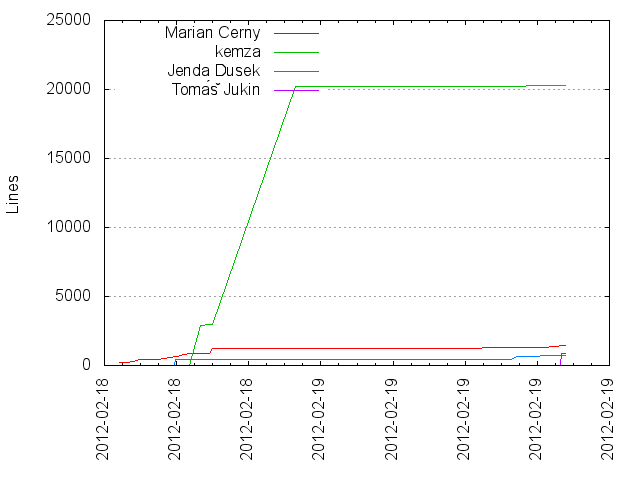
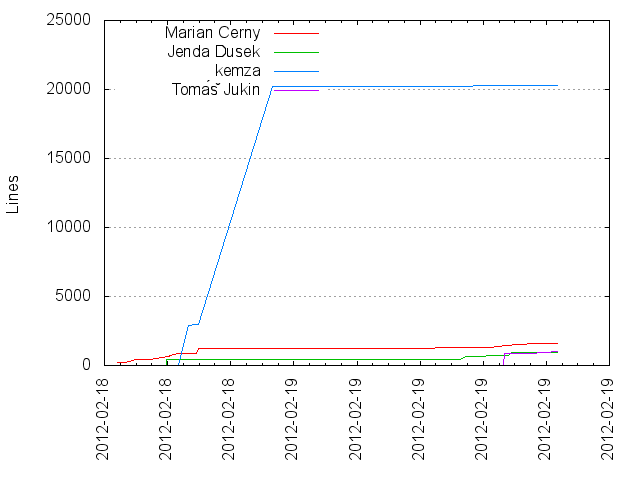
Generated git repository statistics

diff --git a/GADCPrague_stats/activity.html b/GADCPrague_stats/activity.html
@@ -4,7 +4,7 @@
 <head>
 	<title>GitStats - CeliDB</title>
 	<link rel="stylesheet" href="gitstats.css" type="text/css" />
-	<meta name="generator" content="GitStats 57c9f66" />
+	<meta name="generator" content="GitStats 6b39b19" />
 	<script type="text/javascript" src="sortable.js"></script>
 </head>
 <body>
@@ -22,27 +22,27 @@
 
 <h2><a href="#weekly_activity" name="weekly_activity">Weekly activity</a></h2>
 
-<p>Last 32 weeks</p><table class="noborders"><tr><td style="text-align: center; vertical-align: bottom">0<div style="display: block; background-color: red; width: 20px; height: 1px"></div></td><td style="text-align: center; vertical-align: bottom">0<div style="display: block; background-color: red; width: 20px; height: 1px"></div></td><td style="text-align: center; vertical-align: bottom">0<div style="display: block; background-color: red; width: 20px; height: 1px"></div></td><td style="text-align: center; vertical-align: bottom">0<div style="display: block; background-color: red; width: 20px; height: 1px"></div></td><td style="text-align: center; vertical-align: bottom">0<div style="display: block; background-color: red; width: 20px; height: 1px"></div></td><td style="text-align: center; vertical-align: bottom">0<div style="display: block; background-color: red; width: 20px; height: 1px"></div></td><td style="text-align: center; vertical-align: bottom">0<div style="display: block; background-color: red; width: 20px; height: 1px"></div></td><td style="text-align: center; vertical-align: bottom">0<div style="display: block; background-color: red; width: 20px; height: 1px"></div></td><td style="text-align: center; vertical-align: bottom">0<div style="display: block; background-color: red; width: 20px; height: 1px"></div></td><td style="text-align: center; vertical-align: bottom">0<div style="display: block; background-color: red; width: 20px; height: 1px"></div></td><td style="text-align: center; vertical-align: bottom">0<div style="display: block; background-color: red; width: 20px; height: 1px"></div></td><td style="text-align: center; vertical-align: bottom">0<div style="display: block; background-color: red; width: 20px; height: 1px"></div></td><td style="text-align: center; vertical-align: bottom">0<div style="display: block; background-color: red; width: 20px; height: 1px"></div></td><td style="text-align: center; vertical-align: bottom">0<div style="display: block; background-color: red; width: 20px; height: 1px"></div></td><td style="text-align: center; vertical-align: bottom">0<div style="display: block; background-color: red; width: 20px; height: 1px"></div></td><td style="text-align: center; vertical-align: bottom">0<div style="display: block; background-color: red; width: 20px; height: 1px"></div></td><td style="text-align: center; vertical-align: bottom">0<div style="display: block; background-color: red; width: 20px; height: 1px"></div></td><td style="text-align: center; vertical-align: bottom">0<div style="display: block; background-color: red; width: 20px; height: 1px"></div></td><td style="text-align: center; vertical-align: bottom">0<div style="display: block; background-color: red; width: 20px; height: 1px"></div></td><td style="text-align: center; vertical-align: bottom">0<div style="display: block; background-color: red; width: 20px; height: 1px"></div></td><td style="text-align: center; vertical-align: bottom">0<div style="display: block; background-color: red; width: 20px; height: 1px"></div></td><td style="text-align: center; vertical-align: bottom">0<div style="display: block; background-color: red; width: 20px; height: 1px"></div></td><td style="text-align: center; vertical-align: bottom">0<div style="display: block; background-color: red; width: 20px; height: 1px"></div></td><td style="text-align: center; vertical-align: bottom">0<div style="display: block; background-color: red; width: 20px; height: 1px"></div></td><td style="text-align: center; vertical-align: bottom">0<div style="display: block; background-color: red; width: 20px; height: 1px"></div></td><td style="text-align: center; vertical-align: bottom">0<div style="display: block; background-color: red; width: 20px; height: 1px"></div></td><td style="text-align: center; vertical-align: bottom">0<div style="display: block; background-color: red; width: 20px; height: 1px"></div></td><td style="text-align: center; vertical-align: bottom">0<div style="display: block; background-color: red; width: 20px; height: 1px"></div></td><td style="text-align: center; vertical-align: bottom">0<div style="display: block; background-color: red; width: 20px; height: 1px"></div></td><td style="text-align: center; vertical-align: bottom">0<div style="display: block; background-color: red; width: 20px; height: 1px"></div></td><td style="text-align: center; vertical-align: bottom">0<div style="display: block; background-color: red; width: 20px; height: 1px"></div></td><td style="text-align: center; vertical-align: bottom">40<div style="display: block; background-color: red; width: 20px; height: 200px"></div></td></tr><tr><td>32</td><td>31</td><td>30</td><td>29</td><td>28</td><td>27</td><td>26</td><td>25</td><td>24</td><td>23</td><td>22</td><td>21</td><td>20</td><td>19</td><td>18</td><td>17</td><td>16</td><td>15</td><td>14</td><td>13</td><td>12</td><td>11</td><td>10</td><td>9</td><td>8</td><td>7</td><td>6</td><td>5</td><td>4</td><td>3</td><td>2</td><td>1</td></tr></table>
+<p>Last 32 weeks</p><table class="noborders"><tr><td style="text-align: center; vertical-align: bottom">0<div style="display: block; background-color: red; width: 20px; height: 1px"></div></td><td style="text-align: center; vertical-align: bottom">0<div style="display: block; background-color: red; width: 20px; height: 1px"></div></td><td style="text-align: center; vertical-align: bottom">0<div style="display: block; background-color: red; width: 20px; height: 1px"></div></td><td style="text-align: center; vertical-align: bottom">0<div style="display: block; background-color: red; width: 20px; height: 1px"></div></td><td style="text-align: center; vertical-align: bottom">0<div style="display: block; background-color: red; width: 20px; height: 1px"></div></td><td style="text-align: center; vertical-align: bottom">0<div style="display: block; background-color: red; width: 20px; height: 1px"></div></td><td style="text-align: center; vertical-align: bottom">0<div style="display: block; background-color: red; width: 20px; height: 1px"></div></td><td style="text-align: center; vertical-align: bottom">0<div style="display: block; background-color: red; width: 20px; height: 1px"></div></td><td style="text-align: center; vertical-align: bottom">0<div style="display: block; background-color: red; width: 20px; height: 1px"></div></td><td style="text-align: center; vertical-align: bottom">0<div style="display: block; background-color: red; width: 20px; height: 1px"></div></td><td style="text-align: center; vertical-align: bottom">0<div style="display: block; background-color: red; width: 20px; height: 1px"></div></td><td style="text-align: center; vertical-align: bottom">0<div style="display: block; background-color: red; width: 20px; height: 1px"></div></td><td style="text-align: center; vertical-align: bottom">0<div style="display: block; background-color: red; width: 20px; height: 1px"></div></td><td style="text-align: center; vertical-align: bottom">0<div style="display: block; background-color: red; width: 20px; height: 1px"></div></td><td style="text-align: center; vertical-align: bottom">0<div style="display: block; background-color: red; width: 20px; height: 1px"></div></td><td style="text-align: center; vertical-align: bottom">0<div style="display: block; background-color: red; width: 20px; height: 1px"></div></td><td style="text-align: center; vertical-align: bottom">0<div style="display: block; background-color: red; width: 20px; height: 1px"></div></td><td style="text-align: center; vertical-align: bottom">0<div style="display: block; background-color: red; width: 20px; height: 1px"></div></td><td style="text-align: center; vertical-align: bottom">0<div style="display: block; background-color: red; width: 20px; height: 1px"></div></td><td style="text-align: center; vertical-align: bottom">0<div style="display: block; background-color: red; width: 20px; height: 1px"></div></td><td style="text-align: center; vertical-align: bottom">0<div style="display: block; background-color: red; width: 20px; height: 1px"></div></td><td style="text-align: center; vertical-align: bottom">0<div style="display: block; background-color: red; width: 20px; height: 1px"></div></td><td style="text-align: center; vertical-align: bottom">0<div style="display: block; background-color: red; width: 20px; height: 1px"></div></td><td style="text-align: center; vertical-align: bottom">0<div style="display: block; background-color: red; width: 20px; height: 1px"></div></td><td style="text-align: center; vertical-align: bottom">0<div style="display: block; background-color: red; width: 20px; height: 1px"></div></td><td style="text-align: center; vertical-align: bottom">0<div style="display: block; background-color: red; width: 20px; height: 1px"></div></td><td style="text-align: center; vertical-align: bottom">0<div style="display: block; background-color: red; width: 20px; height: 1px"></div></td><td style="text-align: center; vertical-align: bottom">0<div style="display: block; background-color: red; width: 20px; height: 1px"></div></td><td style="text-align: center; vertical-align: bottom">0<div style="display: block; background-color: red; width: 20px; height: 1px"></div></td><td style="text-align: center; vertical-align: bottom">0<div style="display: block; background-color: red; width: 20px; height: 1px"></div></td><td style="text-align: center; vertical-align: bottom">0<div style="display: block; background-color: red; width: 20px; height: 1px"></div></td><td style="text-align: center; vertical-align: bottom">53<div style="display: block; background-color: red; width: 20px; height: 200px"></div></td></tr><tr><td>32</td><td>31</td><td>30</td><td>29</td><td>28</td><td>27</td><td>26</td><td>25</td><td>24</td><td>23</td><td>22</td><td>21</td><td>20</td><td>19</td><td>18</td><td>17</td><td>16</td><td>15</td><td>14</td><td>13</td><td>12</td><td>11</td><td>10</td><td>9</td><td>8</td><td>7</td><td>6</td><td>5</td><td>4</td><td>3</td><td>2</td><td>1</td></tr></table>
 <h2><a href="#hour_of_day" name="hour_of_day">Hour of Day</a></h2>
 
 <table><tr><th>Hour</th><th>0</th><th>1</th><th>2</th><th>3</th><th>4</th><th>5</th><th>6</th><th>7</th><th>8</th><th>9</th><th>10</th><th>11</th><th>12</th><th>13</th><th>14</th><th>15</th><th>16</th><th>17</th><th>18</th><th>19</th><th>20</th><th>21</th><th>22</th><th>23</th></tr>
-<tr><th>Commits</th><td>0</td><td>0</td><td>0</td><td>0</td><td>0</td><td>0</td><td>0</td><td>0</td><td>0</td><td style="background-color: rgb(138, 0, 0)">1</td><td style="background-color: rgb(138, 0, 0)">1</td><td style="background-color: rgb(150, 0, 0)">2</td><td style="background-color: rgb(185, 0, 0)">5</td><td style="background-color: rgb(161, 0, 0)">3</td><td style="background-color: rgb(255, 0, 0)">11</td><td style="background-color: rgb(150, 0, 0)">2</td><td style="background-color: rgb(196, 0, 0)">6</td><td style="background-color: rgb(173, 0, 0)">4</td><td style="background-color: rgb(161, 0, 0)">3</td><td>0</td><td>0</td><td>0</td><td>0</td><td style="background-color: rgb(150, 0, 0)">2</td></tr>
-<tr><th>%</th><td>0.00</td><td>0.00</td><td>0.00</td><td>0.00</td><td>0.00</td><td>0.00</td><td>0.00</td><td>0.00</td><td>0.00</td><td style="background-color: rgb(138, 0, 0)">2.50</td><td style="background-color: rgb(138, 0, 0)">2.50</td><td style="background-color: rgb(150, 0, 0)">5.00</td><td style="background-color: rgb(185, 0, 0)">12.50</td><td style="background-color: rgb(161, 0, 0)">7.50</td><td style="background-color: rgb(255, 0, 0)">27.50</td><td style="background-color: rgb(150, 0, 0)">5.00</td><td style="background-color: rgb(196, 0, 0)">15.00</td><td style="background-color: rgb(173, 0, 0)">10.00</td><td style="background-color: rgb(161, 0, 0)">7.50</td><td>0.00</td><td>0.00</td><td>0.00</td><td>0.00</td><td style="background-color: rgb(150, 0, 0)">5.00</td></tr></table><img src="hour_of_day.png" alt="Hour of Day" />
+<tr><th>Commits</th><td>0</td><td>0</td><td>0</td><td>0</td><td>0</td><td>0</td><td>0</td><td>0</td><td>0</td><td style="background-color: rgb(135, 0, 0)">1</td><td style="background-color: rgb(135, 0, 0)">1</td><td style="background-color: rgb(144, 0, 0)">2</td><td style="background-color: rgb(169, 0, 0)">5</td><td style="background-color: rgb(152, 0, 0)">3</td><td style="background-color: rgb(255, 0, 0)">15</td><td style="background-color: rgb(186, 0, 0)">7</td><td style="background-color: rgb(186, 0, 0)">7</td><td style="background-color: rgb(186, 0, 0)">7</td><td style="background-color: rgb(152, 0, 0)">3</td><td>0</td><td>0</td><td>0</td><td>0</td><td style="background-color: rgb(144, 0, 0)">2</td></tr>
+<tr><th>%</th><td>0.00</td><td>0.00</td><td>0.00</td><td>0.00</td><td>0.00</td><td>0.00</td><td>0.00</td><td>0.00</td><td>0.00</td><td style="background-color: rgb(135, 0, 0)">1.89</td><td style="background-color: rgb(135, 0, 0)">1.89</td><td style="background-color: rgb(144, 0, 0)">3.77</td><td style="background-color: rgb(169, 0, 0)">9.43</td><td style="background-color: rgb(152, 0, 0)">5.66</td><td style="background-color: rgb(255, 0, 0)">28.30</td><td style="background-color: rgb(186, 0, 0)">13.21</td><td style="background-color: rgb(186, 0, 0)">13.21</td><td style="background-color: rgb(186, 0, 0)">13.21</td><td style="background-color: rgb(152, 0, 0)">5.66</td><td>0.00</td><td>0.00</td><td>0.00</td><td>0.00</td><td style="background-color: rgb(144, 0, 0)">3.77</td></tr></table><img src="hour_of_day.png" alt="Hour of Day" />
 <h2><a href="#day_of_week" name="day_of_week">Day of Week</a></h2>
 
-<div class="vtable"><table><tr><th>Day</th><th>Total (%)</th></tr><tr><th>Mon</th><td>0</td></tr><tr><th>Tue</th><td>0</td></tr><tr><th>Wed</th><td>0</td></tr><tr><th>Thu</th><td>0</td></tr><tr><th>Fri</th><td>0</td></tr><tr><th>Sat</th><td>22 (55.00%)</td></tr><tr><th>Sun</th><td>18 (45.00%)</td></tr></table></div><img src="day_of_week.png" alt="Day of Week" />
+<div class="vtable"><table><tr><th>Day</th><th>Total (%)</th></tr><tr><th>Mon</th><td>0</td></tr><tr><th>Tue</th><td>0</td></tr><tr><th>Wed</th><td>0</td></tr><tr><th>Thu</th><td>0</td></tr><tr><th>Fri</th><td>0</td></tr><tr><th>Sat</th><td>22 (41.51%)</td></tr><tr><th>Sun</th><td>31 (58.49%)</td></tr></table></div><img src="day_of_week.png" alt="Day of Week" />
 <h2><a href="#hour_of_week" name="hour_of_week">Hour of Week</a></h2>
 
-<table><tr><th>Weekday</th><th>0</th><th>1</th><th>2</th><th>3</th><th>4</th><th>5</th><th>6</th><th>7</th><th>8</th><th>9</th><th>10</th><th>11</th><th>12</th><th>13</th><th>14</th><th>15</th><th>16</th><th>17</th><th>18</th><th>19</th><th>20</th><th>21</th><th>22</th><th>23</th></tr><tr><th>Mon</th><td></td><td></td><td></td><td></td><td></td><td></td><td></td><td></td><td></td><td></td><td></td><td></td><td></td><td></td><td></td><td></td><td></td><td></td><td></td><td></td><td></td><td></td><td></td><td></td></tr><tr><th>Tue</th><td></td><td></td><td></td><td></td><td></td><td></td><td></td><td></td><td></td><td></td><td></td><td></td><td></td><td></td><td></td><td></td><td></td><td></td><td></td><td></td><td></td><td></td><td></td><td></td></tr><tr><th>Wed</th><td></td><td></td><td></td><td></td><td></td><td></td><td></td><td></td><td></td><td></td><td></td><td></td><td></td><td></td><td></td><td></td><td></td><td></td><td></td><td></td><td></td><td></td><td></td><td></td></tr><tr><th>Thu</th><td></td><td></td><td></td><td></td><td></td><td></td><td></td><td></td><td></td><td></td><td></td><td></td><td></td><td></td><td></td><td></td><td></td><td></td><td></td><td></td><td></td><td></td><td></td><td></td></tr><tr><th>Fri</th><td></td><td></td><td></td><td></td><td></td><td></td><td></td><td></td><td></td><td></td><td></td><td></td><td></td><td></td><td></td><td></td><td></td><td></td><td></td><td></td><td></td><td></td><td></td><td></td></tr><tr><th>Sat</th><td></td><td></td><td></td><td></td><td></td><td></td><td></td><td></td><td></td><td></td><td></td><td></td><td></td><td style="background-color: rgb(145, 0, 0)">1</td><td style="background-color: rgb(200, 0, 0)">4</td><td style="background-color: rgb(163, 0, 0)">2</td><td style="background-color: rgb(236, 0, 0)">6</td><td style="background-color: rgb(200, 0, 0)">4</td><td style="background-color: rgb(181, 0, 0)">3</td><td></td><td></td><td></td><td></td><td style="background-color: rgb(163, 0, 0)">2</td></tr><tr><th>Sun</th><td></td><td></td><td></td><td></td><td></td><td></td><td></td><td></td><td></td><td style="background-color: rgb(145, 0, 0)">1</td><td style="background-color: rgb(145, 0, 0)">1</td><td style="background-color: rgb(163, 0, 0)">2</td><td style="background-color: rgb(218, 0, 0)">5</td><td style="background-color: rgb(163, 0, 0)">2</td><td style="background-color: rgb(255, 0, 0)">7</td><td></td><td></td><td></td><td></td><td></td><td></td><td></td><td></td><td></td></tr></table>
+<table><tr><th>Weekday</th><th>0</th><th>1</th><th>2</th><th>3</th><th>4</th><th>5</th><th>6</th><th>7</th><th>8</th><th>9</th><th>10</th><th>11</th><th>12</th><th>13</th><th>14</th><th>15</th><th>16</th><th>17</th><th>18</th><th>19</th><th>20</th><th>21</th><th>22</th><th>23</th></tr><tr><th>Mon</th><td></td><td></td><td></td><td></td><td></td><td></td><td></td><td></td><td></td><td></td><td></td><td></td><td></td><td></td><td></td><td></td><td></td><td></td><td></td><td></td><td></td><td></td><td></td><td></td></tr><tr><th>Tue</th><td></td><td></td><td></td><td></td><td></td><td></td><td></td><td></td><td></td><td></td><td></td><td></td><td></td><td></td><td></td><td></td><td></td><td></td><td></td><td></td><td></td><td></td><td></td><td></td></tr><tr><th>Wed</th><td></td><td></td><td></td><td></td><td></td><td></td><td></td><td></td><td></td><td></td><td></td><td></td><td></td><td></td><td></td><td></td><td></td><td></td><td></td><td></td><td></td><td></td><td></td><td></td></tr><tr><th>Thu</th><td></td><td></td><td></td><td></td><td></td><td></td><td></td><td></td><td></td><td></td><td></td><td></td><td></td><td></td><td></td><td></td><td></td><td></td><td></td><td></td><td></td><td></td><td></td><td></td></tr><tr><th>Fri</th><td></td><td></td><td></td><td></td><td></td><td></td><td></td><td></td><td></td><td></td><td></td><td></td><td></td><td></td><td></td><td></td><td></td><td></td><td></td><td></td><td></td><td></td><td></td><td></td></tr><tr><th>Sat</th><td></td><td></td><td></td><td></td><td></td><td></td><td></td><td></td><td></td><td></td><td></td><td></td><td></td><td style="background-color: rgb(138, 0, 0)">1</td><td style="background-color: rgb(173, 0, 0)">4</td><td style="background-color: rgb(150, 0, 0)">2</td><td style="background-color: rgb(196, 0, 0)">6</td><td style="background-color: rgb(173, 0, 0)">4</td><td style="background-color: rgb(161, 0, 0)">3</td><td></td><td></td><td></td><td></td><td style="background-color: rgb(150, 0, 0)">2</td></tr><tr><th>Sun</th><td></td><td></td><td></td><td></td><td></td><td></td><td></td><td></td><td></td><td style="background-color: rgb(138, 0, 0)">1</td><td style="background-color: rgb(138, 0, 0)">1</td><td style="background-color: rgb(150, 0, 0)">2</td><td style="background-color: rgb(185, 0, 0)">5</td><td style="background-color: rgb(150, 0, 0)">2</td><td style="background-color: rgb(255, 0, 0)">11</td><td style="background-color: rgb(185, 0, 0)">5</td><td style="background-color: rgb(138, 0, 0)">1</td><td style="background-color: rgb(161, 0, 0)">3</td><td></td><td></td><td></td><td></td><td></td><td></td></tr></table>
 <h2><a href="#month_of_year" name="month_of_year">Month of Year</a></h2>
 
-<div class="vtable"><table><tr><th>Month</th><th>Commits (%)</th></tr><tr><td>1</td><td>0 (0.00 %)</td></tr><tr><td>2</td><td>40 (100.00 %)</td></tr><tr><td>3</td><td>0 (0.00 %)</td></tr><tr><td>4</td><td>0 (0.00 %)</td></tr><tr><td>5</td><td>0 (0.00 %)</td></tr><tr><td>6</td><td>0 (0.00 %)</td></tr><tr><td>7</td><td>0 (0.00 %)</td></tr><tr><td>8</td><td>0 (0.00 %)</td></tr><tr><td>9</td><td>0 (0.00 %)</td></tr><tr><td>10</td><td>0 (0.00 %)</td></tr><tr><td>11</td><td>0 (0.00 %)</td></tr><tr><td>12</td><td>0 (0.00 %)</td></tr></table></div><img src="month_of_year.png" alt="Month of Year" />
+<div class="vtable"><table><tr><th>Month</th><th>Commits (%)</th></tr><tr><td>1</td><td>0 (0.00 %)</td></tr><tr><td>2</td><td>53 (100.00 %)</td></tr><tr><td>3</td><td>0 (0.00 %)</td></tr><tr><td>4</td><td>0 (0.00 %)</td></tr><tr><td>5</td><td>0 (0.00 %)</td></tr><tr><td>6</td><td>0 (0.00 %)</td></tr><tr><td>7</td><td>0 (0.00 %)</td></tr><tr><td>8</td><td>0 (0.00 %)</td></tr><tr><td>9</td><td>0 (0.00 %)</td></tr><tr><td>10</td><td>0 (0.00 %)</td></tr><tr><td>11</td><td>0 (0.00 %)</td></tr><tr><td>12</td><td>0 (0.00 %)</td></tr></table></div><img src="month_of_year.png" alt="Month of Year" />
 <h2><a href="#commits_by_year/month" name="commits_by_year/month">Commits by year/month</a></h2>
 
-<div class="vtable"><table><tr><th>Month</th><th>Commits</th><th>Lines added</th><th>Lines removed</th></tr><tr><td>2012-02</td><td>40</td><td>22790</td><td>3251</td></tr></table></div><img src="commits_by_year_month.png" alt="Commits by year/month" />
+<div class="vtable"><table><tr><th>Month</th><th>Commits</th><th>Lines added</th><th>Lines removed</th></tr><tr><td>2012-02</td><td>53</td><td>23325</td><td>3353</td></tr></table></div><img src="commits_by_year_month.png" alt="Commits by year/month" />
 <h2><a href="#commits_by_year" name="commits_by_year">Commits by Year</a></h2>
 
-<div class="vtable"><table><tr><th>Year</th><th>Commits (% of all)</th><th>Lines added</th><th>Lines removed</th></tr><tr><td>2012</td><td>40 (100.00%)</td><td>22790</td><td>3251</td></tr></table></div><img src="commits_by_year.png" alt="Commits by Year" />
+<div class="vtable"><table><tr><th>Year</th><th>Commits (% of all)</th><th>Lines added</th><th>Lines removed</th></tr><tr><td>2012</td><td>53 (100.00%)</td><td>23325</td><td>3353</td></tr></table></div><img src="commits_by_year.png" alt="Commits by Year" />
 <h2><a href="#commits_by_timezone" name="commits_by_timezone">Commits by Timezone</a></h2>
 
-<table><tr><th>Timezone</th><th>Commits</th><tr><th>+0100</th><td style="background-color: rgb(255, 0, 0)">40</td></tr></tr></table></body></html>
+<table><tr><th>Timezone</th><th>Commits</th><tr><th>+0100</th><td style="background-color: rgb(255, 0, 0)">53</td></tr></tr></table></body></html>

diff --git a/GADCPrague_stats/authors.html b/GADCPrague_stats/authors.html
@@ -4,7 +4,7 @@
 <head>
 	<title>GitStats - CeliDB</title>
 	<link rel="stylesheet" href="gitstats.css" type="text/css" />
-	<meta name="generator" content="GitStats 57c9f66" />
+	<meta name="generator" content="GitStats 6b39b19" />
 	<script type="text/javascript" src="sortable.js"></script>
 </head>
 <body>
@@ -22,7 +22,7 @@
 
 <h2><a href="#list_of_authors" name="list_of_authors">List of Authors</a></h2>
 
-<table class="authors sortable" id="authors"><tr><th>Author</th><th>Commits (%)</th><th>+ lines</th><th>- lines</th><th>First commit</th><th>Last commit</th><th class="unsortable">Age</th><th>Active days</th><th># by commits</th></tr><tr><td>Marian Cerny</td><td>21 (52.50%)</td><td>1418</td><td>628</td><td>2012-02-18</td><td>2012-02-19</td><td>1 day, 0:25:47</td><td>2</td><td>1</td></tr><tr><td>kemza</td><td>9 (22.50%)</td><td>20287</td><td>2957</td><td>2012-02-18</td><td>2012-02-19</td><td>22:10:28</td><td>2</td><td>2</td></tr><tr><td>Jenda Dusek</td><td>7 (17.50%)</td><td>698</td><td>169</td><td>2012-02-18</td><td>2012-02-19</td><td>20:35:00</td><td>2</td><td>3</td></tr><tr><td>Tomáš Jukin</td><td>3 (7.50%)</td><td>890</td><td>0</td><td>2012-02-19</td><td>2012-02-19</td><td>0:13:23</td><td>1</td><td>4</td></tr></table>
+<table class="authors sortable" id="authors"><tr><th>Author</th><th>Commits (%)</th><th>+ lines</th><th>- lines</th><th>First commit</th><th>Last commit</th><th class="unsortable">Age</th><th>Active days</th><th># by commits</th></tr><tr><td>Marian Cerny</td><td>26 (49.06%)</td><td>1576</td><td>649</td><td>2012-02-18</td><td>2012-02-19</td><td>1 day, 2:10:25</td><td>2</td><td>1</td></tr><tr><td>Jenda Dusek</td><td>11 (20.75%)</td><td>954</td><td>180</td><td>2012-02-18</td><td>2012-02-19</td><td>22:10:36</td><td>2</td><td>2</td></tr><tr><td>kemza</td><td>10 (18.87%)</td><td>20289</td><td>2959</td><td>2012-02-18</td><td>2012-02-19</td><td>23:26:54</td><td>2</td><td>3</td></tr><tr><td>Tomáš Jukin</td><td>6 (11.32%)</td><td>1023</td><td>82</td><td>2012-02-19</td><td>2012-02-19</td><td>3:20:53</td><td>1</td><td>4</td></tr></table>
 <h2><a href="#cumulated_added_lines_of_code_per_author" name="cumulated_added_lines_of_code_per_author">Cumulated Added Lines of Code per Author</a></h2>
 
 <img src="lines_of_code_by_author.png" alt="Lines of code per Author" />
@@ -31,10 +31,10 @@
 <img src="commits_by_author.png" alt="Commits per Author" />
 <h2><a href="#author_of_month" name="author_of_month">Author of Month</a></h2>
 
-<table class="sortable" id="aom"><tr><th>Month</th><th>Author</th><th>Commits (%)</th><th class="unsortable">Next top 5</th><th>Number of authors</th></tr><tr><td>2012-02</td><td>Marian Cerny</td><td>21 (52.50% of 40)</td><td>kemza, Jenda Dusek, Tomáš Jukin</td><td>4</td></tr></table>
+<table class="sortable" id="aom"><tr><th>Month</th><th>Author</th><th>Commits (%)</th><th class="unsortable">Next top 5</th><th>Number of authors</th></tr><tr><td>2012-02</td><td>Marian Cerny</td><td>26 (49.06% of 53)</td><td>Jenda Dusek, kemza, Tomáš Jukin</td><td>4</td></tr></table>
 <h2><a href="#author_of_year" name="author_of_year">Author of Year</a></h2>
 
-<table class="sortable" id="aoy"><tr><th>Year</th><th>Author</th><th>Commits (%)</th><th class="unsortable">Next top 5</th><th>Number of authors</th></tr><tr><td>2012</td><td>Marian Cerny</td><td>21 (52.50% of 40)</td><td>kemza, Jenda Dusek, Tomáš Jukin</td><td>4</td></tr></table>
+<table class="sortable" id="aoy"><tr><th>Year</th><th>Author</th><th>Commits (%)</th><th class="unsortable">Next top 5</th><th>Number of authors</th></tr><tr><td>2012</td><td>Marian Cerny</td><td>26 (49.06% of 53)</td><td>Jenda Dusek, kemza, Tomáš Jukin</td><td>4</td></tr></table>
 <h2><a href="#commits_by_domains" name="commits_by_domains">Commits by Domains</a></h2>
 
-<div class="vtable"><table><tr><th>Domains</th><th>Total (%)</th></tr><tr><th>pematon.com</th><td>21 (52.50%)</td></tr><tr><th>kemza.com</th><td>9 (22.50%)</td></tr><tr><th>ltnet.cz</th><td>7 (17.50%)</td></tr><tr><th>jukin.cz</th><td>3 (7.50%)</td></tr></table></div><img src="domains.png" alt="Commits by Domains" /></body></html>
+<div class="vtable"><table><tr><th>Domains</th><th>Total (%)</th></tr><tr><th>pematon.com</th><td>26 (49.06%)</td></tr><tr><th>ltnet.cz</th><td>11 (20.75%)</td></tr><tr><th>kemza.com</th><td>10 (18.87%)</td></tr><tr><th>jukin.cz</th><td>6 (11.32%)</td></tr></table></div><img src="domains.png" alt="Commits by Domains" /></body></html>

diff --git a/GADCPrague_stats/files.html b/GADCPrague_stats/files.html
@@ -4,7 +4,7 @@
 <head>
 	<title>GitStats - CeliDB</title>
 	<link rel="stylesheet" href="gitstats.css" type="text/css" />
-	<meta name="generator" content="GitStats 57c9f66" />
+	<meta name="generator" content="GitStats 6b39b19" />
 	<script type="text/javascript" src="sortable.js"></script>
 </head>
 <body>
@@ -20,11 +20,11 @@
 </ul>
 </div>
 <dl>
-<dt>Total files</dt><dd>107</dd><dt>Total lines</dt><dd>19539</dd><dt>Average file size</dt><dd>18449.97 bytes</dd></dl>
+<dt>Total files</dt><dd>111</dd><dt>Total lines</dt><dd>19972</dd><dt>Average file size</dt><dd>10914.32 bytes</dd></dl>
 
 <h2><a href="#file_count_by_date" name="file_count_by_date">File count by date</a></h2>
 
 <img src="files_by_date.png" alt="Files by Date" />
 <h2><a href="#extensions" name="extensions">Extensions</a></h2>
 
-<table class="sortable" id="ext"><tr><th>Extension</th><th>Files (%)</th><th>Lines (%)</th><th>Lines/file</th></tr><tr><td></td><td>3 (2.80%)</td><td>44 (0.23%)</td><td>14</td></tr><tr><td>cache</td><td>1 (0.93%)</td><td>10 (0.05%)</td><td>10</td></tr><tr><td>cfg</td><td>1 (0.93%)</td><td>40 (0.20%)</td><td>40</td></tr><tr><td>css</td><td>1 (0.93%)</td><td>145 (0.74%)</td><td>145</td></tr><tr><td>dat</td><td>10 (9.35%)</td><td>113 (0.58%)</td><td>11</td></tr><tr><td>gif</td><td>3 (2.80%)</td><td>6 (0.03%)</td><td>2</td></tr><tr><td>html</td><td>6 (5.61%)</td><td>184 (0.94%)</td><td>30</td></tr><tr><td>jar</td><td>1 (0.93%)</td><td>934 (4.78%)</td><td>934</td></tr><tr><td>java</td><td>14 (13.08%)</td><td>969 (4.96%)</td><td>69</td></tr><tr><td>js</td><td>1 (0.93%)</td><td>324 (1.66%)</td><td>324</td></tr><tr><td>mp4</td><td>1 (0.93%)</td><td>3136 (16.05%)</td><td>3136</td></tr><tr><td>php</td><td>5 (4.67%)</td><td>195 (1.00%)</td><td>39</td></tr><tr><td>plot</td><td>10 (9.35%)</td><td>118 (0.60%)</td><td>11</td></tr><tr><td>png</td><td>35 (32.71%)</td><td>289 (1.48%)</td><td>8</td></tr><tr><td>prefs</td><td>3 (2.80%)</td><td>13 (0.07%)</td><td>4</td></tr><tr><td>properties</td><td>1 (0.93%)</td><td>11 (0.06%)</td><td>11</td></tr><tr><td>sql</td><td>1 (0.93%)</td><td>17112 (87.58%)</td><td>17112</td></tr><tr><td>txt</td><td>1 (0.93%)</td><td>13 (0.07%)</td><td>13</td></tr><tr><td>xml</td><td>9 (8.41%)</td><td>235 (1.20%)</td><td>26</td></tr></table></body></html>
+<table class="sortable" id="ext"><tr><th>Extension</th><th>Files (%)</th><th>Lines (%)</th><th>Lines/file</th></tr><tr><td></td><td>3 (2.70%)</td><td>44 (0.22%)</td><td>14</td></tr><tr><td>cache</td><td>1 (0.90%)</td><td>13 (0.07%)</td><td>13</td></tr><tr><td>cfg</td><td>1 (0.90%)</td><td>40 (0.20%)</td><td>40</td></tr><tr><td>css</td><td>1 (0.90%)</td><td>145 (0.73%)</td><td>145</td></tr><tr><td>dat</td><td>10 (9.01%)</td><td>164 (0.82%)</td><td>16</td></tr><tr><td>gif</td><td>3 (2.70%)</td><td>6 (0.03%)</td><td>2</td></tr><tr><td>html</td><td>6 (5.41%)</td><td>184 (0.92%)</td><td>30</td></tr><tr><td>jar</td><td>1 (0.90%)</td><td>934 (4.68%)</td><td>934</td></tr><tr><td>java</td><td>18 (16.22%)</td><td>1349 (6.75%)</td><td>74</td></tr><tr><td>js</td><td>1 (0.90%)</td><td>324 (1.62%)</td><td>324</td></tr><tr><td>mp4</td><td>1 (0.90%)</td><td>0 (0.00%)</td><td>0</td></tr><tr><td>php</td><td>5 (4.50%)</td><td>195 (0.98%)</td><td>39</td></tr><tr><td>plot</td><td>10 (9.01%)</td><td>118 (0.59%)</td><td>11</td></tr><tr><td>png</td><td>35 (31.53%)</td><td>284 (1.42%)</td><td>8</td></tr><tr><td>prefs</td><td>3 (2.70%)</td><td>13 (0.07%)</td><td>4</td></tr><tr><td>properties</td><td>1 (0.90%)</td><td>11 (0.06%)</td><td>11</td></tr><tr><td>sql</td><td>1 (0.90%)</td><td>17112 (85.68%)</td><td>17112</td></tr><tr><td>txt</td><td>1 (0.90%)</td><td>13 (0.07%)</td><td>13</td></tr><tr><td>xml</td><td>9 (8.11%)</td><td>236 (1.18%)</td><td>26</td></tr></table></body></html>

diff --git a/GADCPrague_stats/index.html b/GADCPrague_stats/index.html
@@ -4,7 +4,7 @@
 <head>
 	<title>GitStats - CeliDB</title>
 	<link rel="stylesheet" href="gitstats.css" type="text/css" />
-	<meta name="generator" content="GitStats 57c9f66" />
+	<meta name="generator" content="GitStats 6b39b19" />
 	<script type="text/javascript" src="sortable.js"></script>
 </head>
 <body>
@@ -19,5 +19,5 @@
 <li><a href="tags.html">Tags</a></li>
 </ul>
 </div>
-<dl><dt>Project name</dt><dd>CeliDB</dd><dt>Generated</dt><dd>2012-02-19 17:39:29 (in 5 seconds)</dd><dt>Generator</dt><dd><a href="http://gitstats.sourceforge.net/">GitStats</a> (version 57c9f66), git version 1.7.1.1, gnuplot 4.4 patchlevel 4</dd><dt>Report Period</dt><dd>2012-02-18 13:49:41 to 2012-02-19 14:35:11</dd><dt>Age</dt><dd>2 days, 2 active days (100.00%)</dd><dt>Total Files</dt><dd>107</dd><dt>Total Lines of Code</dt><dd>19539 (22790 added, 3251 removed)</dd><dt>Total Commits</dt><dd>40 (average 20.0 commits per active day, 20.0 per all days)</dd><dt>Authors</dt><dd>4 (average 10.0 commits per author)</dd></dl></body>
+<dl><dt>Project name</dt><dd>CeliDB</dd><dt>Generated</dt><dd>2012-02-19 17:47:29 (in 5 seconds)</dd><dt>Generator</dt><dd><a href="http://gitstats.sourceforge.net/">GitStats</a> (version 6b39b19), git version 1.7.1.1, gnuplot 4.4 patchlevel 4</dd><dt>Report Period</dt><dd>2012-02-18 13:49:41 to 2012-02-19 17:42:41</dd><dt>Age</dt><dd>2 days, 2 active days (100.00%)</dd><dt>Total Files</dt><dd>111</dd><dt>Total Lines of Code</dt><dd>19972 (23325 added, 3353 removed)</dd><dt>Total Commits</dt><dd>53 (average 26.5 commits per active day, 26.5 per all days)</dd><dt>Authors</dt><dd>4 (average 13.2 commits per author)</dd></dl></body>
 </html>

diff --git a/GADCPrague_stats/lines.html b/GADCPrague_stats/lines.html
@@ -4,7 +4,7 @@
 <head>
 	<title>GitStats - CeliDB</title>
 	<link rel="stylesheet" href="gitstats.css" type="text/css" />
-	<meta name="generator" content="GitStats 57c9f66" />
+	<meta name="generator" content="GitStats 6b39b19" />
 	<script type="text/javascript" src="sortable.js"></script>
 </head>
 <body>
@@ -20,7 +20,7 @@
 </ul>
 </div>
 <dl>
-<dt>Total lines</dt><dd>19539</dd></dl>
+<dt>Total lines</dt><dd>19972</dd></dl>
 
 <h2><a href="#lines_of_code" name="lines_of_code">Lines of Code</a></h2>
 

diff --git a/GADCPrague_stats/tags.html b/GADCPrague_stats/tags.html
@@ -4,7 +4,7 @@
 <head>
 	<title>GitStats - CeliDB</title>
 	<link rel="stylesheet" href="gitstats.css" type="text/css" />
-	<meta name="generator" content="GitStats 57c9f66" />
+	<meta name="generator" content="GitStats 6b39b19" />
 	<script type="text/javascript" src="sortable.js"></script>
 </head>
 <body>
